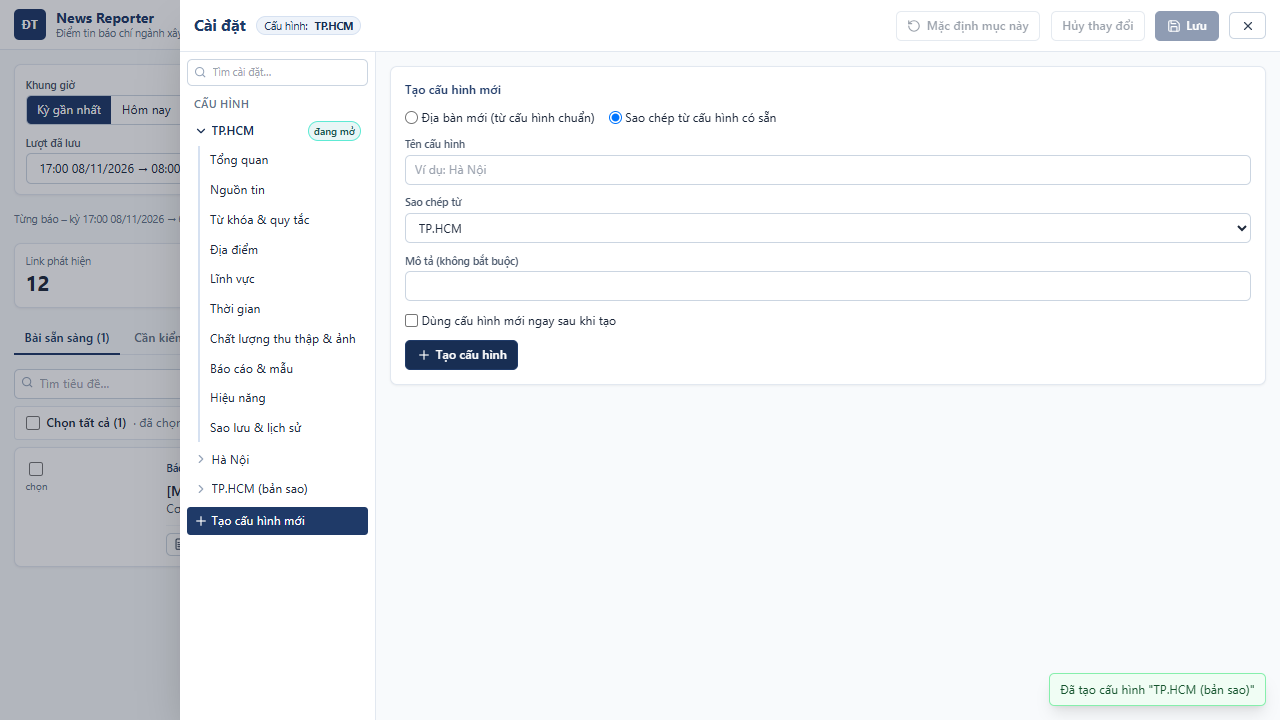
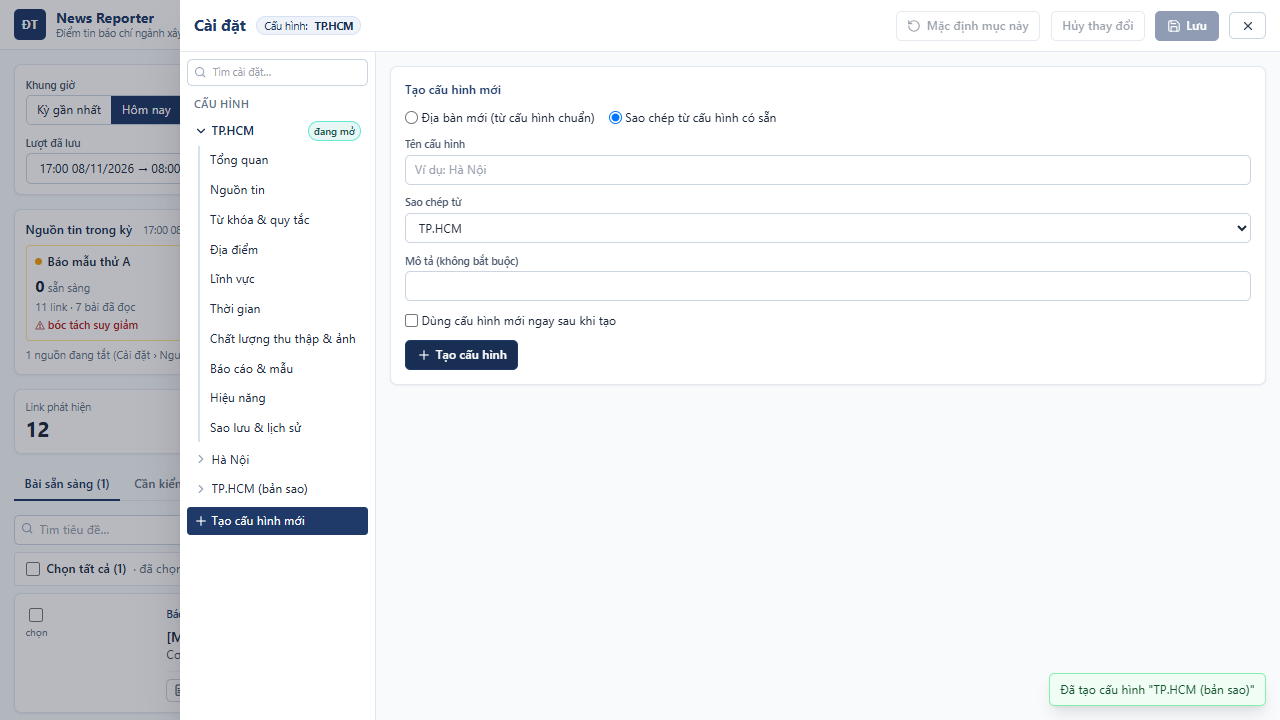
Newest stories first (toggle), default window "Hôm nay" (opens its run), per-publisher tiles for the viewed period

diff --git a/web/src/App.tsx b/web/src/App.tsx
@@ -61,11 +61,10 @@ export function App() {
 
   const applyPreset = useCallback((p: typeof preset, s: Settings) => {
     setPreset(p);
-    const now = new Date();
-    const { startClock: a, endClock: b } = s.reportWindow;
-    const w = p === 'today' ? todayWindow(now, a, b) : p === 'yesterday' ? yesterdayWindow(now, a, b) : p === 'custom' && s.reportWindow.customFrom ? { from: s.reportWindow.customFrom, to: s.reportWindow.customTo } : lastCompletedWindow(now, a, b);
+    const w = presetWindow(p, s);
     setFrom(vnIsoToLocalInput(w.from));
     setTo(vnIsoToLocalInput(w.to));
+    return w;
   }, []);
 
   const loadRun = useCallback(async (id: string) => {
@@ -85,10 +84,13 @@ export function App() {
         setSettings(s);
         setSources(src);
         setRuns(rs);
-        applyPreset(s.reportWindow.defaultPreset, s);
-        if (rs[0]) {
-          setRunId(rs[0].runId);
-          await loadRun(rs[0].runId);
+        const w = applyPreset(s.reportWindow.defaultPreset, s);
+        // open the saved run of the default window (e.g. "Hôm nay"); otherwise the most recent one
+        const same = rs.find((r) => Date.parse(r.window.from) === Date.parse(w.from) && Date.parse(r.window.to) === Date.parse(w.to));
+        const first = same ?? rs[0];
+        if (first) {
+          setRunId(first.runId);
+          await loadRun(first.runId);
         }
         if (api.mode === 'local' && s.startup.autoCollectLastCompletedWindow && navigator.onLine) {
           const w = lastCompletedWindow(new Date(), s.reportWindow.startClock, s.reportWindow.endClock);
@@ -486,24 +488,8 @@ export function App() {
           </section>
         )}
 
-        {/* source strip */}
-        {run && (
-          <section className="flex flex-wrap items-center gap-2">
-            {/* the numbers belong to the period being viewed and its LAST run (they do not reset between periods' runs) */}
-            <span className="text-xs text-slate-500" data-testid="source-strip-caption">
-              Từng báo – kỳ {formatVn(run.window.from)} → {formatVn(run.window.to)}
-              {run.finishedAt ? ` · lượt cuối ${formatVn(run.finishedAt)}` : ''}
-              {run.notes?.some((x) => x.startsWith('Kỳ đang diễn ra')) ? ' · đang diễn ra, cập nhật mỗi giờ' : api.mode === 'live' && !run.active ? ' · kỳ đã chốt' : ''}:
-            </span>
-            {run.sources.map((s) => (
-              <span key={s.sourceId} className={`chip ${s.status === 'ok' ? 'border-green-300 bg-green-50 text-green-800' : s.status === 'partial' ? 'border-amber-300 bg-amber-50 text-amber-800' : s.status === 'failed' ? 'border-red-300 bg-red-50 text-red-800' : s.status === 'running' ? 'border-blue-300 bg-blue-50 text-blue-800' : 'border-slate-300 bg-slate-50 text-slate-600'}`}>
-                <b>{s.sourceName}</b> · {SRC_STATUS[s.status] ?? s.status} · {s.candidates} link{s.limitReached ? ' · chạm giới hạn' : ''}
-                {s.adapter?.status === 'degraded' && <span className="font-bold text-red-700"> · bóc tách suy giảm</span>}
-              </span>
-            ))}
-            {run.active && <span className="chip border-blue-300 bg-blue-50 text-blue-800"><RefreshCw className="h-3 w-3 animate-spin" /> đang chạy</span>}
-          </section>
-        )}
+        {/* sources of the viewed period: one tile per publisher */}
+        {run && <SourceStrip run={run} arts={arts} ready={ready} onOpen={() => setTab('coverage')} />}
 
         {/* metrics */}
         <section className="grid grid-cols-2 gap-3 md:grid-cols-6">
@@ -611,6 +597,82 @@ function MergePanel({ primaryId, arts, reviews, onMerge, onSplit }: { primaryId:
   );
 }
 
+/** Per-publisher summary of the viewed period (its last run): status, links found, extracted and ready stories, warnings. */
+function SourceStrip({ run, arts, ready, onOpen }: { run: RunInfo; arts: Article[]; ready: Article[]; onOpen: () => void }) {
+  const live = run.notes?.some((x) => x.startsWith('Kỳ đang diễn ra'));
+  const extracted = new Map<string, number>();
+  for (const a of arts) extracted.set(a.sourceId, (extracted.get(a.sourceId) ?? 0) + 1);
+  const readyBy = new Map<string, number>();
+  for (const a of ready) readyBy.set(a.sourceId, (readyBy.get(a.sourceId) ?? 0) + 1);
+  const DOT: Record<string, string> = { ok: 'bg-green-500', partial: 'bg-amber-500', failed: 'bg-red-500', running: 'bg-blue-500 animate-pulse', pending: 'bg-slate-300', cancelled: 'bg-slate-400' };
+  const shown = run.sources.filter((s) => s.status !== 'skipped_disabled');
+  const off = run.sources.length - shown.length;
+  return (
+    <section className="card p-3" data-testid="source-strip">
+      <div className="mb-2 flex flex-wrap items-baseline gap-x-3 gap-y-1">
+        <h2 className="text-sm font-semibold text-navy-800">Nguồn tin trong kỳ</h2>
+        <span className="text-xs text-slate-500" data-testid="source-strip-caption">
+          {formatVn(run.window.from)} → {formatVn(run.window.to)}
+          {run.finishedAt ? ` · lượt cuối ${formatVn(run.finishedAt)}` : ''}
+        </span>
+        {run.active ? (
+          <span className="chip border-blue-300 bg-blue-50 text-blue-800"><RefreshCw className="h-3 w-3 animate-spin" /> đang chạy</span>
+        ) : live ? (
+          <span className="chip border-sky-300 bg-sky-50 text-sky-800">đang diễn ra · cập nhật mỗi giờ</span>
+        ) : api.mode === 'live' ? (
+          <span className="chip border-slate-300 bg-slate-50 text-slate-600">kỳ đã chốt</span>
+        ) : null}
+        <button className="ml-auto text-xs text-blue-700 underline" onClick={onOpen}>Chi tiết độ phủ →</button>
+      </div>
+      <div className="grid grid-cols-2 gap-2 sm:grid-cols-3 lg:grid-cols-6">
+        {shown.map((s) => {
+          const warn = [
+            s.adapter?.status === 'degraded' && { t: 'bóc tách suy giảm', c: 'text-red-700', d: s.adapter.reasons.join('; ') },
+            s.limitReached && { t: 'chạm giới hạn tải', c: 'text-amber-700', d: 'Còn link chưa tải trong lượt này (Cài đặt › Hiệu năng)' },
+            s.status === 'failed' && { t: 'lỗi', c: 'text-red-700', d: s.error ?? '' },
+          ].filter(Boolean) as Array<{ t: string; c: string; d: string }>;
+          return (
+            <button
+              key={s.sourceId}
+              onClick={onOpen}
+              title={[`${s.sourceName}: ${SRC_STATUS[s.status] ?? s.status}`, ...warn.map((w) => `${w.t}${w.d ? ` – ${w.d}` : ''}`)].join('\n')}
+              className={`rounded border bg-white px-2.5 py-2 text-left transition hover:border-navy-300 hover:shadow-sm ${warn.length ? 'border-amber-200' : 'border-slate-200'}`}
+              data-testid={`source-tile-${s.sourceId}`}
+            >
+              <div className="flex items-center gap-1.5">
+                <span className={`h-2 w-2 shrink-0 rounded-full ${DOT[s.status] ?? 'bg-slate-300'}`} />
+                <span className="truncate text-sm font-semibold text-slate-800">{s.sourceName}</span>
+              </div>
+              <div className="mt-1 flex items-baseline gap-1">
+                <span className="text-lg font-bold tabular-nums text-slate-800">{readyBy.get(s.sourceId) ?? 0}</span>
+                <span className="text-[11px] text-slate-500">sẵn sàng</span>
+              </div>
+              <div className="text-[11px] tabular-nums text-slate-500">{s.candidates} link · {extracted.get(s.sourceId) ?? 0} bài đã đọc</div>
+              <div className="mt-0.5 min-h-[1rem] text-[11px] font-medium">
+                {warn.length ? (
+                  warn.map((w) => <span key={w.t} className={`mr-1.5 ${w.c}`}>⚠ {w.t}</span>)
+                ) : s.status === 'ok' ? (
+                  <span className="text-green-700">✓ OK</span>
+                ) : (
+                  <span className={s.status === 'partial' ? 'text-amber-700' : 'text-slate-600'}>{SRC_STATUS[s.status] ?? s.status}</span>
+                )}
+              </div>
+            </button>
+          );
+        })}
+      </div>
+      {off > 0 && <p className="mt-1.5 text-[11px] text-slate-500">{off} nguồn đang tắt (Cài đặt › Nguồn tin).</p>}
+    </section>
+  );
+}
+
+/** window of a preset ("Kỳ gần nhất", "Hôm nay", "Hôm qua", saved custom) */
+function presetWindow(p: 'last_completed' | 'today' | 'yesterday' | 'custom', s: Settings): { from: string; to: string } {
+  const now = new Date();
+  const { startClock: a, endClock: b } = s.reportWindow;
+  return p === 'today' ? todayWindow(now, a, b) : p === 'yesterday' ? yesterdayWindow(now, a, b) : p === 'custom' && s.reportWindow.customFrom ? { from: s.reportWindow.customFrom, to: s.reportWindow.customTo } : lastCompletedWindow(now, a, b);
+}
+
 const SRC_STATUS: Record<string, string> = { ok: 'OK', partial: 'Một phần', failed: 'Lỗi', running: 'Đang chạy', pending: 'Chờ', skipped_disabled: 'Đã tắt', manual_only: 'Nhập thủ công', cancelled: 'Đã hủy' };
 
 function Metric({ label, value, tone }: { label: string; value: number; tone?: 'green' | 'amber' | 'red' | 'navy' }) {
@@ -627,7 +689,16 @@ function ArticleList({ list, excluded = [], reviews, cands, settings, onInspect,
   const [q, setQ] = useState('');
   const [bulk, setBulk] = useState<string | null>(null);
   const [cat, setCat] = useState<string>('all');
-  const shown = list.filter((a) => (!q || a.title.toLowerCase().includes(q.toLowerCase())) && (cat === 'all' || (reviews[a.id]?.primaryCategory ?? a.primaryCategory) === cat));
+  // newest first by default (stories without a publication time last); the editor can flip it
+  const [newestFirst, setNewestFirst] = useState(true);
+  const ts = (a: Article) => (a.publishedAt ? Date.parse(a.publishedAt) : NaN);
+  const shown = list
+    .filter((a) => (!q || a.title.toLowerCase().includes(q.toLowerCase())) && (cat === 'all' || (reviews[a.id]?.primaryCategory ?? a.primaryCategory) === cat))
+    .sort((x, y) => {
+      const a = ts(x), b = ts(y);
+      if (Number.isNaN(a) || Number.isNaN(b)) return Number.isNaN(a) ? (Number.isNaN(b) ? 0 : 1) : -1;
+      return newestFirst ? b - a : a - b;
+    });
   const catLabel = (c: string | null | undefined) => settings?.categories.find((x) => x.code === c)?.label ?? 'Chưa phân loại';
   // bulk actions apply to the stories SHOWN (search + sector filter); stories merged into another one are skipped
   const selectable = shown.filter((a) => !reviews[a.id]?.groupId);
@@ -651,6 +722,9 @@ function ArticleList({ list, excluded = [], reviews, cands, settings, onInspect,
         {settings?.categories.filter((c) => c.enabled).map((c) => (
           <button key={c.code} className={`chip ${cat === c.code ? 'border-navy-700 bg-navy-700 text-white' : 'border-slate-300 bg-white'}`} onClick={() => setCat(c.code)}>{c.label}</button>
         ))}
+        <button className="btn-ghost btn-xs ml-auto" onClick={() => setNewestFirst((v) => !v)} title="Đổi thứ tự theo giờ đăng" data-testid="sort-toggle">
+          {newestFirst ? <ArrowDown className="h-3.5 w-3.5" /> : <ArrowUp className="h-3.5 w-3.5" />} {newestFirst ? 'Mới nhất trước' : 'Cũ nhất trước'}
+        </button>
       </div>
       {selectable.length > 0 && (
         <div className="mb-2 flex flex-wrap items-center gap-2 rounded border border-slate-200 bg-white px-3 py-2 text-sm" data-testid="bulk-bar">

diff --git a/tests/ui-live/review.spec.ts b/tests/ui-live/review.spec.ts
@@ -117,7 +117,7 @@ test('web = local: photos, full article text, shared settings used by the server
   // publisher photo links load straight from the publisher in the browser (fixture domains are served here)
   await page.route(/^https:\/\/fixture-[a-z]\.example\.vn\/img\//, (r) => r.fulfill({ body: png, contentType: 'image/png' }).catch(() => {})); // a photo may still be loading when the page navigates
   await page.goto('');
-  const card = page.locator('article').filter({ hasText: 'Mưa lớn tối 8.11 khiến' }).first();
+  const card = page.locator('article').filter({ hasText: 'khiến nhiều tuyến đường ở phường Hiệp Bình' }).first();
   const thumb = card.locator('img').first();
   await expect(thumb).toBeVisible();
   await expect.poll(() => thumb.evaluate((i: HTMLImageElement) => i.naturalWidth)).toBe(1200);
@@ -250,5 +250,5 @@ test('web profiles: create Đà Nẵng (stored by the worker), own settings + ho
   // back to TP.HCM: its published data is shown again
   await page.getByLabel('Cấu hình (profile)').selectOption('hcm');
   await expect(page.getByLabel('Cấu hình (profile)')).toHaveValue('hcm');
-  await expect(page.locator('article').filter({ hasText: 'Mưa lớn tối 8.11 khiến' }).first()).toBeVisible();
+  await expect(page.locator('article').filter({ hasText: 'khiến nhiều tuyến đường ở phường Hiệp Bình' }).first()).toBeVisible();
 });

diff --git a/tests/ui/app.spec.ts b/tests/ui/app.spec.ts
@@ -267,6 +267,15 @@ test('Bulk select / unselect all for the report; move stories from Cần kiểm 
 
   // select all → every ready story goes to the report; unselect all → none
   await page.getByRole('button', { name: /^Bài sẵn sàng/ }).click();
+  // newest first by default (metro 21:00 before flood 19:30), flip with the sort button
+  await expect(page.locator('article h3').first()).toContainText('Khánh thành nhà ga metro');
+  await page.getByTestId('sort-toggle').click();
+  await expect(page.getByTestId('sort-toggle')).toContainText('Cũ nhất trước');
+  await expect(page.locator('article h3').last()).toContainText('Khánh thành nhà ga metro');
+  await page.getByTestId('sort-toggle').click();
+  // per-publisher tiles of the viewed period
+  await expect(page.getByTestId('source-strip')).toContainText('Nguồn tin trong kỳ');
+  await expect(page.getByTestId('source-tile-fixture-a')).toContainText('sẵn sàng');
   const bar = page.getByTestId('bulk-bar');
   await bar.getByLabel('Chọn tất cả bài đang hiển thị').click(); // saved story by story, the box follows
   await expect(page.getByRole('button', { name: /^Xuất báo cáo/ })).toHaveText(`Xuất báo cáo (${ready0})`);

diff --git a/src/domain/schemas.ts b/src/domain/schemas.ts
@@ -167,7 +167,7 @@ export const SettingsSchema = z.object({
     .object({
       startClock: clock.default('17:00'),
       endClock: clock.default('08:00'),
-      defaultPreset: z.enum(['last_completed', 'today', 'yesterday', 'custom']).default('last_completed'),
+      defaultPreset: z.enum(['last_completed', 'today', 'yesterday', 'custom']).default('today'),
       customFrom: z.string().default(''),
       customTo: z.string().default(''),
       lookbackMarginHours: z.number().min(0).max(72).default(6),

diff --git a/tests/relevance.test.ts b/tests/relevance.test.ts
@@ -125,3 +125,9 @@ describe('saved keyword lists receive new default keywords once (user approved 1
     expect(SettingsSchema.parse(saved).categories.find((c) => c.code === 'TRAFFIC')!.keywords).not.toContain('sân bay');
   });
 });
+
+describe('defaults requested by the user (16/11/2026)', () => {
+  it('the window preset when the app opens is "Hôm nay"', () => {
+    expect(s.reportWindow.defaultPreset).toBe('today');
+  });
+});

diff --git a/PROGRESS.md b/PROGRESS.md
@@ -7,7 +7,13 @@
 - Last session: 2026-11-16 (session 13) – hourly cloud runs continue the published period; label evaluation fixed
 - The user (GitHub `bccuong`) has authorised commits/pushes to this repo and GitHub Pages/Actions for this project.
 
-## ▶ RESUME HERE (session 13h – action row under each story; source-strip caption; 2026-11-16)
+## ▶ RESUME HERE (session 13i – newest first, default "Hôm nay", source tiles; 2026-11-16)
+- Story lists sorted newest → oldest by publication time (unknown time last), toggle "Mới nhất trước / Cũ nhất trước" (`sort-toggle`).
+- Default window preset = "Hôm nay" (schema default; saved web config TP.HCM updated 11:58 VN by "Claude (theo yêu cầu của Cường)", restorable in history). On open the app shows the saved run of that window if one exists, otherwise the most recent run.
+- Per-publisher strip redesigned as `SourceStrip`: card "Nguồn tin trong kỳ" (period, last run, đang chạy / đang diễn ra / kỳ đã chốt, link to Độ phủ) with one tile per publisher (status dot, ready count, links, stories read, warnings: bóc tách suy giảm / chạm giới hạn tải / lỗi); disabled sources summarised. Screenshot `docs/screenshots/bulk-select.png`.
+- Tests: typecheck, vitest 100/100, playwright 11/11, live E2E 5/5 (fixed a test selector that matched publisher D's story first once sorted).
+
+## (history) Session 13h – action row under each story; source-strip caption; 2026-11-16)
 - User: buttons below each story instead of the right column → one row (Xem chi tiết · Bài gốc · ✓ Liên quan · ✗ Không · team votes · → Sẵn sàng / ↩ Trả về … Loại at the far right), `data-testid="story-actions"`.
 - User: "per-publisher stats don't reset after each collection?" – they belong to the viewed period and its last run; period 2026-11-16 was frozen at 10:00, so its 09:59 numbers (incl. the false "bóc tách suy giảm" for Thanh Niên/SGGP, fixed in 6578f69 after that run) stay. Added a caption before the source chips: "Từng báo – kỳ … · lượt cuối … · đang diễn ra / kỳ đã chốt". Offered (not done): clean re-collection of 16/11 via web "Thu thập" (custom period).
 - Tests: typecheck, vitest 99/99, playwright 11/11, live E2E 5/5.
